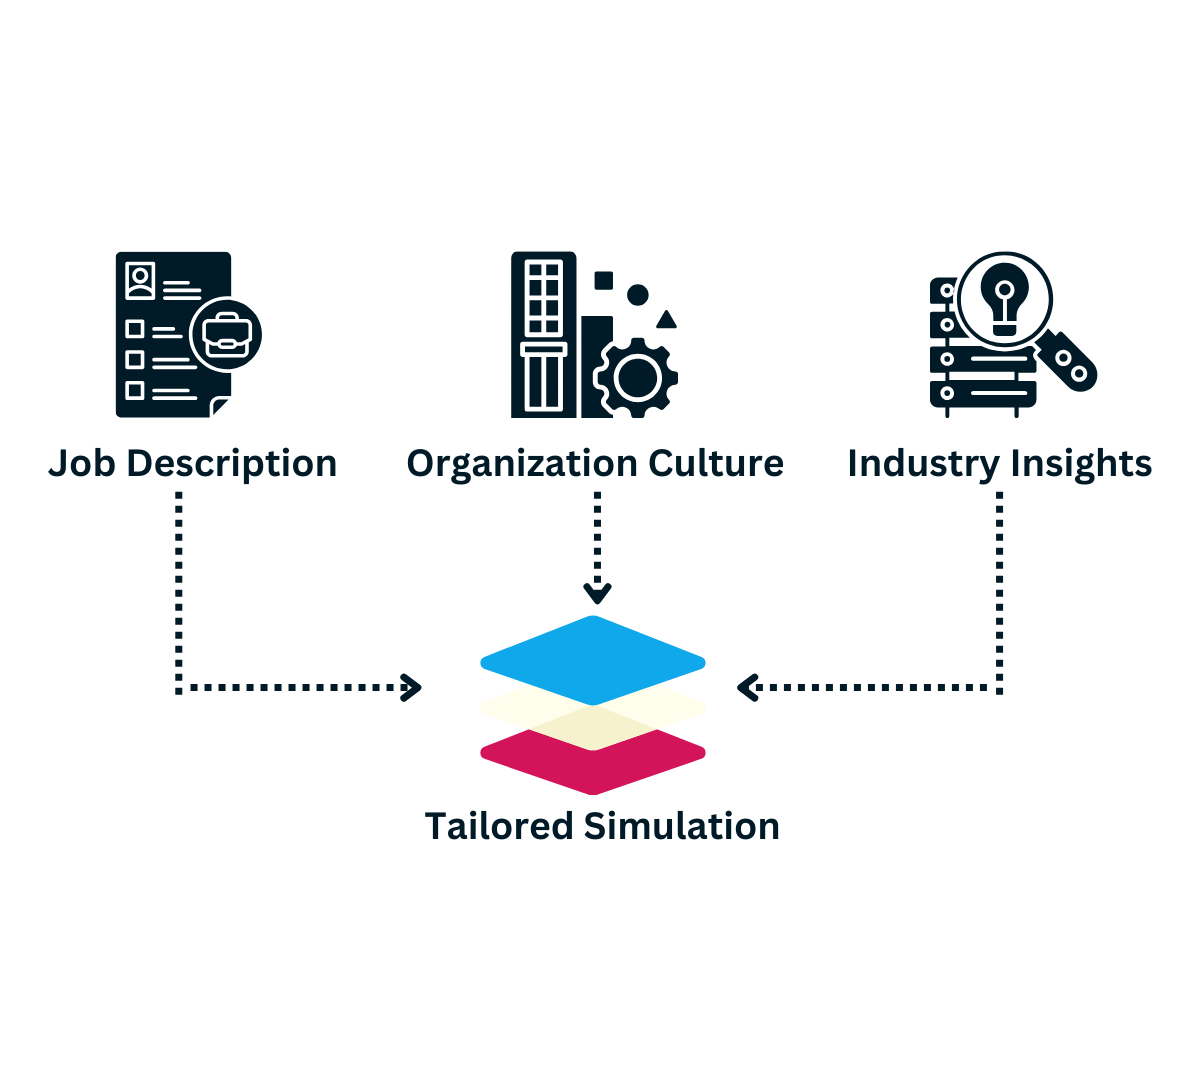
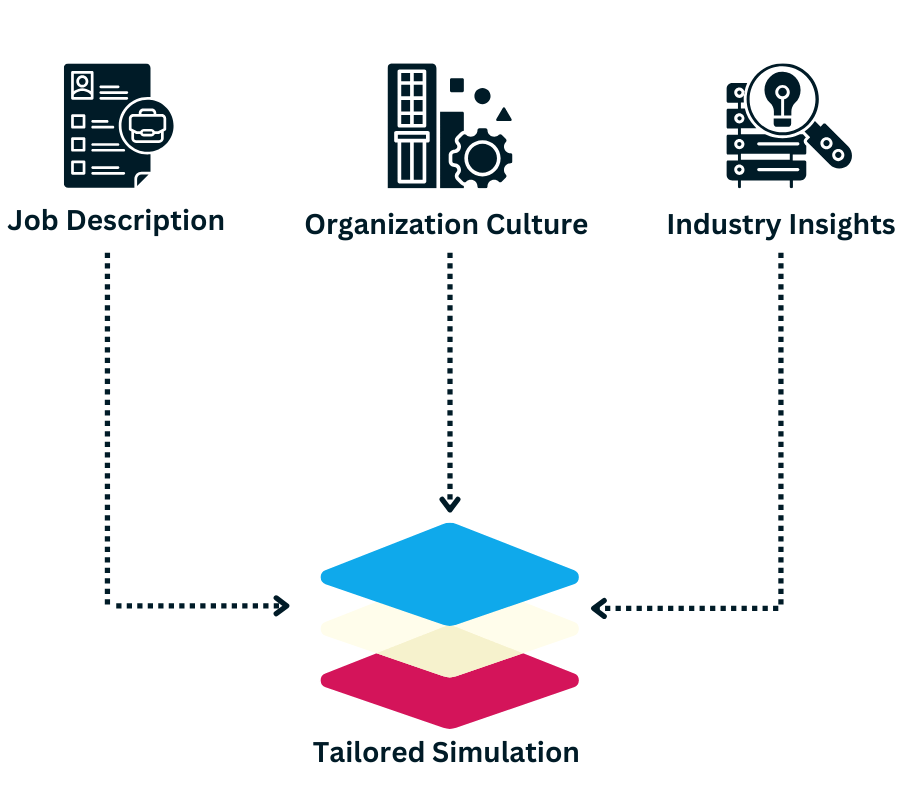
changed font size and images

Changed region(s): [[0.1244, 0.0617, 0.9956, 0.9568], [0.0, 0.0617, 0.3733, 0.7407], [0.3422, 0.0617, 0.6533, 0.463]]

diff --git a/src/components/Seeing.tsx b/src/components/Seeing.tsx
@@ -3,7 +3,10 @@ import Heading from "./Heading";
 import MaxScreen from "./MaxScreen";
 import Paragraph from "./Paragraph";
 import SectionHeader from "./SectionHeader";
+import candidate from "../../public/images/candidate.png";
+import candidateMobile from "../../public/images/candidate_mobile.png";
 import Wave from "./Wave";
+import Image from "next/image";
 
 export default function Seeing() {
   return (
@@ -12,29 +15,38 @@ export default function Seeing() {
         <MaxScreen>
           <FadeUp>
             <SectionHeader>
-              <Heading>Seeing is believing</Heading>
+              <Heading className="text-3xl">Seeing is believing</Heading>
               <Paragraph className="max-w-5xl">
                 With Xeurix’s life-like With Xeurix’s life-like{" "}
                 <span className="font-semibold text-[#d4145a]">
                   3D job simulations
                 </span>{" "}
-                , step candidates in your unique job roles before you even
-                interview them. Evaluate job fit based on evidence, not
-                intuition.
+                , step candidates in your unique job roles. Evaluate job fit
+                based on evidence, not intuition.
               </Paragraph>
             </SectionHeader>
           </FadeUp>
-          <FadeUp>
+          <FadeUp className="relative">
             <video
               muted
               autoPlay
               loop
               preload="none"
-              className="h-auto w-full pt-8"
+              className="h-auto w-full border-none pt-8"
             >
               <source src="/video/xeurix_sim.mp4" type="video/mp4" />
               Your browser does not support the video tag.
             </video>
+            <Image
+              src={candidate}
+              alt="candidate"
+              className="absolute -left-[60px] bottom-64 hidden w-40 xl:block"
+            />
+            <Image
+              src={candidateMobile}
+              alt="candidate"
+              className="absolute -bottom-16 left-[15%] w-28 sm:w-40 xl:hidden"
+            />
           </FadeUp>
         </MaxScreen>
       </div>

diff --git a/src/components/Collaborate.tsx b/src/components/Collaborate.tsx
@@ -3,6 +3,7 @@ import MaxScreen from "./MaxScreen";
 import Paragraph from "./Paragraph";
 import SectionHeader from "./SectionHeader";
 import dnd from "../../public/images/dnd.png";
+import dndMobile from "../../public/images/dnd_Mobile.png";
 import Image from "next/image";
 import FadeUp from "./FadeUp";
 
@@ -12,7 +13,9 @@ export default function Collaborate() {
       <MaxScreen className="px-4">
         <FadeUp>
           <SectionHeader className="mx-auto max-w-6xl">
-            <Heading>Engage, Collaborate, and Hire</Heading>
+            <Heading className="text-2xl">
+              Engage, Collaborate, and Hire
+            </Heading>
             <Paragraph className="mx-auto max-w-3xl">
               With Xeurix collaborate and create a frictionless hiring funnel by
               eliminating tedious back-and-forth communication.
@@ -20,7 +23,16 @@ export default function Collaborate() {
           </SectionHeader>
         </FadeUp>
         <FadeUp className="mx-auto w-full max-w-7xl pt-16">
-          <Image src={dnd} alt="" />
+          <Image
+            src={dnd}
+            alt="Hiring funnel showcasing streamlined communication between hiring manager and recruiter, with candidate progress from shortlisted, interview, to rejection stages."
+            className="hidden lg:block"
+          />
+          <Image
+            src={dndMobile}
+            alt="Hiring funnel showcasing streamlined communication between hiring manager and recruiter, with candidate progress from shortlisted, interview, to rejection stages."
+            className="block lg:hidden"
+          />
         </FadeUp>
       </MaxScreen>
     </section>

diff --git a/src/components/JobFit.tsx b/src/components/JobFit.tsx
@@ -10,9 +10,9 @@ export default function JobFit() {
   return (
     <section className="gradient-job-fit relative" id="home">
       <div className="container">
-        <MaxScreen className="flex min-h-[calc(100dvh-66px)] flex-col items-center lg:justify-between xl:flex-row">
-          <div className="order-2 space-y-7 py-20 xl:order-1 xl:basis-3/5 xl:py-0">
-            <h1 className="text-2xl leading-relaxed sm:text-4xl sm:leading-relaxed lg:text-6xl lg:leading-relaxed 2xl:text-7xl 2xl:leading-relaxed">
+        <MaxScreen className="flex min-h-[calc(100dvh-66px)] flex-col items-center py-10 lg:justify-between xl:flex-row">
+          <div className="order-2 space-y-7 py-6 xl:order-1 xl:basis-3/5 xl:py-0">
+            <h1 className="text-[1.5rem] leading-relaxed sm:text-4xl sm:leading-relaxed lg:text-6xl lg:leading-relaxed 2xl:text-7xl 2xl:leading-relaxed">
               The world’s first
               <span className="font-extrabold">
                 <br /> AI-Driven Job Simulations
@@ -23,8 +23,8 @@ export default function JobFit() {
               Precisely assess job-fit, cultural-fit, skills with advanced job
               simulations and data-powered insights.
             </p>
-            <Button className="inline-block w-40" variant="pill">
-              Free Trial
+            <Button className="inline-block" variant="pill">
+              Request Free Trial
             </Button>
           </div>
           <div className="order-1 hidden xl:order-2 xl:block xl:basis-2/5">

diff --git a/src/components/HireSmarter.tsx b/src/components/HireSmarter.tsx
@@ -16,8 +16,8 @@ export default function HireSmarter() {
       <div className="mx-auto max-w-6xl px-4">
         <MaxScreen>
           <FadeUp>
-            <SectionHeader className="pt-20">
-              <Heading>Elevate Your Hiring Game</Heading>
+            <SectionHeader className="pt-4 lg:pt-20">
+              <Heading className="text-2xl">Elevate Your Hiring Game</Heading>
               <Paragraph className="max-w-3xl">
                 Leverage AI-Powered Job Simulations for Smarter, Faster, and
                 Bias-Free Hiring Decisions.
@@ -27,7 +27,7 @@ export default function HireSmarter() {
           {hireSmarterData.map((data, index) => (
             <div
               key={index}
-              className="flex flex-wrap gap-x-8 gap-y-12 py-12 sm:py-20"
+              className="flex flex-wrap gap-x-8 gap-y-12 py-6 sm:py-20"
             >
               <div
                 className={cn(
@@ -49,9 +49,9 @@ export default function HireSmarter() {
               </FadeUp>
             </div>
           ))}
-          <div className="text-center">
+          <FadeUp className="text-center">
             <Button>Request Demo</Button>
-          </div>
+          </FadeUp>
         </MaxScreen>
       </div>
     </section>

diff --git a/src/components/Platform.tsx b/src/components/Platform.tsx
@@ -13,7 +13,7 @@ export default function Platform() {
         <MaxScreen>
           <FadeUp>
             <SectionHeader>
-              <Heading>AI-Powered Hiring Platform</Heading>
+              <Heading className="text-2xl">AI-Powered Hiring Platform</Heading>
               <Paragraph className="max-w-4xl">
                 Every job is unique, and so is our assessment approach. At
                 Xeurix, we harness AI to create hyper-customized simulations
@@ -30,9 +30,7 @@ export default function Platform() {
                 >
                   <Image src={platform.image} alt={platform.heading} />
                   <div className="space-y-2 px-4 pb-10 pt-4">
-                    <h3 className="text-center text-2xl font-bold">
-                      {platform.heading}
-                    </h3>
+                    <h3 className="text-2xl font-bold">{platform.heading}</h3>
                     <p> {platform.paragraph}</p>
                   </div>
                 </li>

diff --git a/src/components/Button.tsx b/src/components/Button.tsx
@@ -16,7 +16,7 @@ export default function Button({
   return (
     <button
       className={cn(
-        "relative z-20 overflow-hidden rounded-md bg-[#d4145a] px-8 py-2 text-lg font-bold text-white transition-all duration-700 before:absolute before:left-1/2 before:top-full before:-z-10 before:h-52 before:w-56 before:-translate-x-1/2 before:translate-y-0 before:rounded-full before:bg-[#28A8DF] before:transition-all before:duration-700 hover:before:translate-y-[-50%]",
+        "relative z-20 overflow-hidden rounded-md bg-[#d4145a] px-8 py-2 text-base font-bold text-white transition-all duration-700 before:absolute before:left-1/2 before:top-full before:-z-10 before:h-52 before:w-56 before:-translate-x-1/2 before:translate-y-0 before:rounded-full before:bg-[#28A8DF] before:transition-all before:duration-700 hover:before:translate-y-[-50%] sm:text-lg",
         className,
         {
           "rounded-full px-5 py-3": variant === "pill",

diff --git a/src/lib/data.ts b/src/lib/data.ts
@@ -5,7 +5,7 @@ import eliminate_bias from "../../public/images/eliminate_bias.png";
 
 // platform
 import Tailored_Simulations from "../../public/images/Tailored_Simulations.png";
-import ai_characters from "../../public/images/ai_characters.png";
+import ai_characters from "../../public/images/ai-characters.png";
 import boostJobFit from "../../public/images/boost_jobfit.png";
 
 // job roles
@@ -253,28 +253,13 @@ const faqItems = [
 const platformItems = [
   {
     name: "Login",
-    path: "/login",
+    path: "https://app.xeurix.com/",
   },
   {
     name: "SignUp",
-    path: "/signup",
+    path: "https://app.xeurix.com/register",
   },
-  {
-    name: "Features",
-    path: "/features",
-  },
-  {
-    name: "Benefits",
-    path: "/benefits",
-  },
-  {
-    name: "Use Cases",
-    path: "/use-cases",
-  },
-  {
-    name: "FAQ",
-    path: "/faq",
-  },
+  ...homeNavLinks,
 ];
 
 const legalItems = [

diff --git a/src/components/Impact.tsx b/src/components/Impact.tsx
@@ -11,11 +11,15 @@ export default function Impact() {
       <div className="mx-auto max-w-6xl px-4">
         <MaxScreen>
           <SectionHeader>
-            <Heading>Why Xeurix: The Impact?</Heading>
-            <Paragraph className="max-w-5xl">
+            <Heading className="text-3xl">Why Xeurix: The Impact?</Heading>
+            <Paragraph className="hidden max-w-5xl md:block">
               Xeurix revolutionizes hiring by blending advanced AI with
               immersive 3D simulations. Select below to compare traditional
               hiring methods with Xeurix’s cutting-edge approach.
+            </Paragraph>
+            <Paragraph className="md:hidden">
+              Xeurix revolutionizes hiring by blending advanced AI with
+              immersive 3D simulations
             </Paragraph>
           </SectionHeader>
           <ImpactCountDown />

diff --git a/src/components/Partners.tsx b/src/components/Partners.tsx
@@ -24,19 +24,18 @@ export default function Partners() {
             {partners.map((partner) => (
               <FadeUp
                 key={partner.alt}
-                className="flex h-full items-center justify-center bg-white px-4 shadow-xl"
+                className="partners mx-auto flex items-center justify-center bg-white px-4 shadow-xl lg:size-[268px]"
               >
                 <Image
                   src={partner.image}
                   alt={partner.alt}
                   key={partner.alt}
-                  className="aspect-square w-32 object-contain"
                 />
               </FadeUp>
             ))}
           </div>
           <div className="text-center">
-            <p className="font-bold">And more</p>
+            <p className="text-xl font-bold">And more</p>
           </div>
         </MaxScreen>
       </div>

diff --git a/src/components/ImpactCountDown.tsx b/src/components/ImpactCountDown.tsx
@@ -21,7 +21,7 @@ export default function ImpactCountDown() {
   };
 
   return (
-    <div className="mx-auto max-w-6xl pt-16">
+    <div className="mx-auto max-w-6xl pt-6 lg:pt-16">
       <ul className="hidden justify-between rounded-md bg-slate-600/20 md:flex">
         {impactData.map((data, index) => (
           <li
@@ -65,7 +65,7 @@ export default function ImpactCountDown() {
               />
             )}
             <span className="text-[5rem] font-semibold">%</span>
-            <p className="py-4 text-2xl font-semibold">
+            <p className="pb-3 text-2xl font-semibold">
               {impactData[activeTabIndex].subHeading[index].title}
             </p>
             <p className="text-[1.38rem]">

diff --git a/src/app/globals.css b/src/app/globals.css
@@ -5,3 +5,33 @@
 .gradient-job-fit {
   background: linear-gradient(135deg, #e2eff4, #ebe0e0);
 }
+
+
+
+.partners:nth-of-type(1) img {
+  width: 13rem;
+}
+.partners:nth-of-type(2) img {
+  width: 11rem;
+}
+.partners:nth-of-type(3) img {
+  width: 10rem;
+}
+.partners:nth-of-type(4) img {
+  width: 13rem;
+}
+.partners:nth-of-type(5) img {
+  width: 13rem;
+}
+.partners:nth-of-type(5) img {
+  width: 10rem;
+}
+.partners:nth-of-type(6) img {
+  width: 13rem;
+}
+.partners:nth-of-type(7) img {
+  width: 10rem;
+}
+.partners:nth-of-type(8) img {
+  width: 14rem;
+}

diff --git a/src/components/JobRoles.tsx b/src/components/JobRoles.tsx
@@ -14,7 +14,7 @@ export default function JobRoles() {
         <MaxScreen>
           <FadeUp>
             <SectionHeader>
-              <Heading className="text-3xl">Job Roles</Heading>
+              <Heading className="text-4xl">Job Roles</Heading>
               <Paragraph className="max-w-2xl">
                 Our platform is designed to meet the needs for virtually any job
                 role from entry level to senior leadership role.
